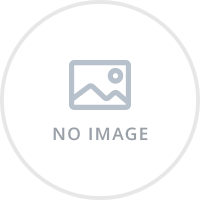
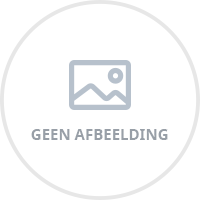
Issues #19: translations

Changed region(s): [[0.15, 0.63, 0.84, 0.72]]

diff --git a/dev/sources/zuidhorn-electron-app/js/angular/municipalityApp.js b/dev/sources/zuidhorn-electron-app/js/angular/municipalityApp.js
@@ -57,7 +57,7 @@ municipalityApp.config(['$stateProvider', '$locationProvider', function($statePr
             name: 'sign-in',
             component: 'authSignInComponent',
             data: {
-                title: "Welcome",
+                title: "welkom",
                 layout: 'auth'
             }
         })

diff --git a/dev/sources/zuidhorn-electron-app/js/angular/directives/EarningsShopkeepersDirective.js b/dev/sources/zuidhorn-electron-app/js/angular/directives/EarningsShopkeepersDirective.js
@@ -30,6 +30,7 @@ municipalityApp.directive('earningsShopkeepers', [
                 $scope.states = {
                     pending: "In behandeling", 
                     refunded: "Terugbetaald", 
+                    refund: "Wachten op terugbetaling", 
                     success: "Voltooid"
                 };
 
